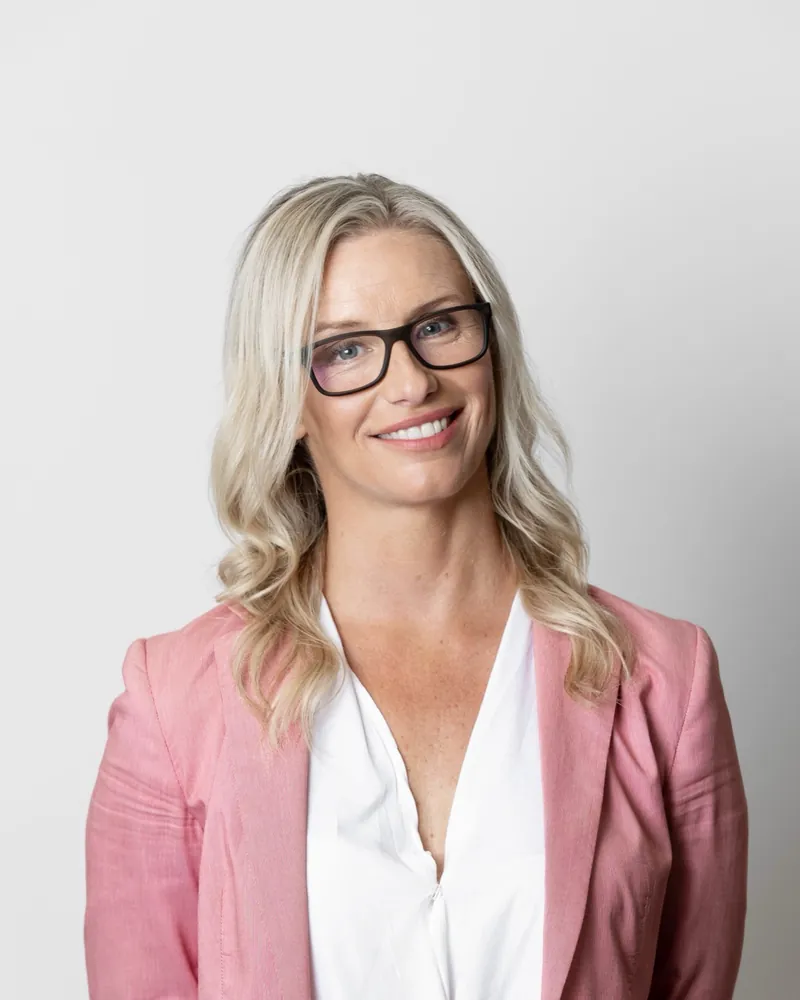
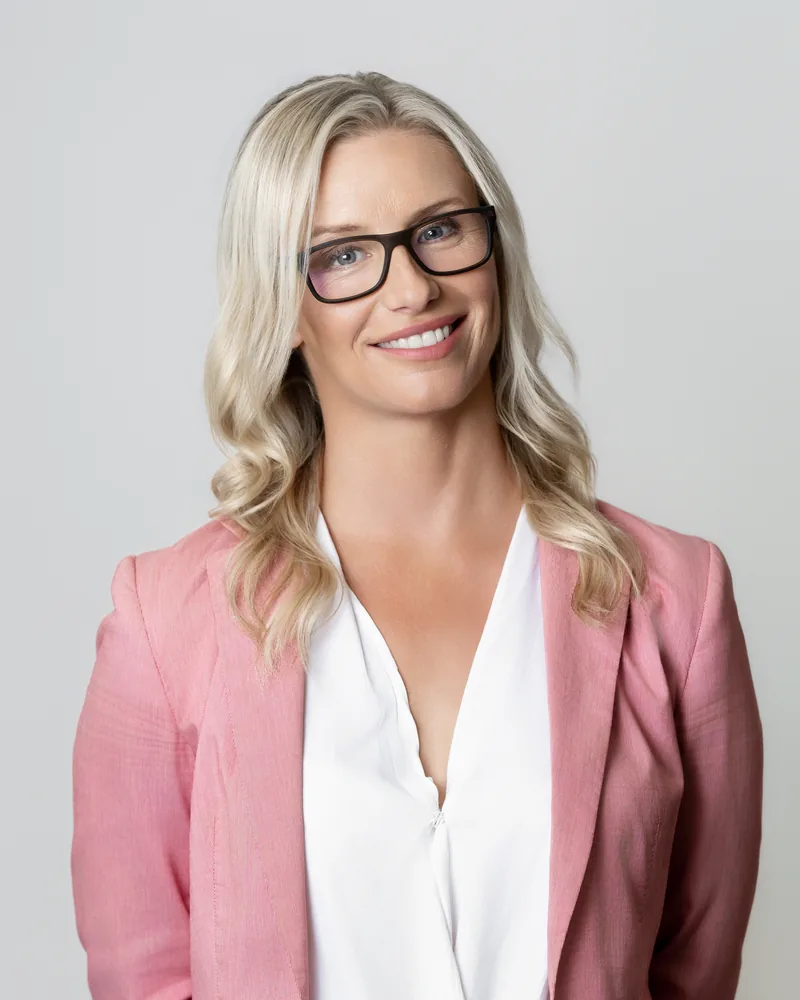
Photos: swap h-bondi hero/og to edited Bondi Sands frame (#6)
Regenerated h-bondi (jpg/webp/-800) from '6 Bondi Sands_(2).jpg' with
matching hero framing; ?v=3 on all h-bondi refs including og:image.

diff --git a/index.html b/index.html
@@ -18,7 +18,7 @@
 <meta property="og:url" content="https://perfectprofile.com.au/">
 <meta property="og:title" content="Corporate headshots Australia – your whole team, in a day">
 <meta property="og:description" content="We bring a photographer and a full studio setup to your office, anywhere in Australia, and photograph your whole team in a day. Matching headshots, back within 24 hours.">
-<meta property="og:image" content="https://perfectprofile.com.au/assets/img/h-bondi.jpg">
+<meta property="og:image" content="https://perfectprofile.com.au/assets/img/h-bondi.jpg?v=3">
 <meta name="twitter:card" content="summary_large_image">
 <script type="application/ld+json">
 {
@@ -28,7 +28,7 @@
   "description": "On-site corporate headshots and commercial photography. We bring a photographer and a full studio setup to your office and photograph your whole team in a day.",
   "url": "https://perfectprofile.com.au/",
   "logo": "https://perfectprofile.com.au/assets/img/logo-mark.svg",
-  "image": "https://perfectprofile.com.au/assets/img/h-bondi.jpg",
+  "image": "https://perfectprofile.com.au/assets/img/h-bondi.jpg?v=3",
   "address": {
     "@type": "PostalAddress",
     "addressCountry": "AU"
@@ -72,7 +72,7 @@
         <div class="lx-unveil">
           <div class="lx-plate-img lx-hero-slides">
             <!-- [html-validate-disable-block element-required-attributes: slides 2+ lazy-load via data-src in lx-hero.js] -->
-            <img src="assets/img/h-bondi.jpg" srcset="assets/img/h-bondi-800.webp 800w, assets/img/h-bondi.webp 1120w" sizes="(min-width: 980px) 40vw, 92vw" alt="Headshot of a woman in a pink blazer on a white background" fetchpriority="high" class="is-active" data-caption="Bondi Sands, headshot day">
+            <img src="assets/img/h-bondi.jpg?v=3" srcset="assets/img/h-bondi-800.webp?v=3 800w, assets/img/h-bondi.webp?v=3 1120w" sizes="(min-width: 980px) 40vw, 92vw" alt="Headshot of a woman in a pink blazer on a white background" fetchpriority="high" class="is-active" data-caption="Bondi Sands, headshot day">
             <img data-src="assets/img/h-thattil.jpg?v=3" data-srcset="assets/img/h-thattil-800.webp?v=3 800w, assets/img/h-thattil.webp?v=3 1120w" sizes="(min-width: 980px) 40vw, 92vw" alt="Editorial portrait in a yellow jacket on a pink background" data-caption="Maria Thattil, cover shoot">
             <img data-src="assets/img/h-vrc.jpg?v=3" data-srcset="assets/img/h-vrc-800.webp?v=3 800w, assets/img/h-vrc.webp?v=3 1120w" sizes="(min-width: 980px) 40vw, 92vw" alt="Model in a red suit on a white lounge" data-caption="VRC, carnival campaign">
             <img data-src="assets/img/h-wendell1.jpg?v=3" data-srcset="assets/img/h-wendell1-800.webp?v=3 800w, assets/img/h-wendell1.webp?v=3 1120w" sizes="(min-width: 980px) 40vw, 92vw" alt="Black and white portrait of a seated executive" data-caption="Executive series">

diff --git a/requestaquote.html b/requestaquote.html
@@ -18,7 +18,7 @@
 <meta property="og:url" content="https://perfectprofile.com.au/requestaquote">
 <meta property="og:title" content="Request a quote – Perfect Profile">
 <meta property="og:description" content="Request a quote for a Perfect Profile corporate headshot day at your office, anywhere in Australia.">
-<meta property="og:image" content="https://perfectprofile.com.au/assets/img/h-bondi.jpg">
+<meta property="og:image" content="https://perfectprofile.com.au/assets/img/h-bondi.jpg?v=3">
 <meta name="twitter:card" content="summary_large_image">
 <script type="application/ld+json">
 {
@@ -27,7 +27,7 @@
   "name": "Perfect Profile",
   "description": "On-site corporate headshots and commercial photography. We bring a photographer and a full studio setup to your office and photograph your whole team in a day.",
   "url": "https://perfectprofile.com.au/",
-  "image": "https://perfectprofile.com.au/assets/img/h-bondi.jpg",
+  "image": "https://perfectprofile.com.au/assets/img/h-bondi.jpg?v=3",
   "telephone": "+61 467 485 279",
   "email": "info@perfectprofile.com.au",
   "address": {

diff --git a/portfolio.html b/portfolio.html
@@ -18,7 +18,7 @@
 <meta property="og:url" content="https://perfectprofile.com.au/portfolio">
 <meta property="og:title" content="Portfolio – Australian corporate headshots – Perfect Profile">
 <meta property="og:description" content="Corporate headshots and commercial photography from recent shoot days around Australia, covering a range of industries and team sizes.">
-<meta property="og:image" content="https://perfectprofile.com.au/assets/img/h-bondi.jpg">
+<meta property="og:image" content="https://perfectprofile.com.au/assets/img/h-bondi.jpg?v=3">
 <meta name="twitter:card" content="summary_large_image">
 </head>
 <body class="lx">

diff --git a/services.html b/services.html
@@ -18,7 +18,7 @@
 <meta property="og:url" content="https://perfectprofile.com.au/services">
 <meta property="og:title" content="Corporate headshot days across Australia – Perfect Profile">
 <meta property="og:description" content="How a Perfect Profile shoot day works at your office: logistics, on-site setup, the shoot itself, retouching, and delivery.">
-<meta property="og:image" content="https://perfectprofile.com.au/assets/img/h-bondi.jpg">
+<meta property="og:image" content="https://perfectprofile.com.au/assets/img/h-bondi.jpg?v=3">
 <meta name="twitter:card" content="summary_large_image">
 </head>
 <body class="lx">

diff --git a/about.html b/about.html
@@ -18,7 +18,7 @@
 <meta property="og:url" content="https://perfectprofile.com.au/about">
 <meta property="og:title" content="About Perfect Profile – corporate photography across Australia">
 <meta property="og:description" content="Why we started Perfect Profile, how we work, and what we've photographed around Australia so far.">
-<meta property="og:image" content="https://perfectprofile.com.au/assets/img/h-bondi.jpg">
+<meta property="og:image" content="https://perfectprofile.com.au/assets/img/h-bondi.jpg?v=3">
 <meta name="twitter:card" content="summary_large_image">
 </head>
 <body class="lx">

diff --git a/contact.html b/contact.html
@@ -18,7 +18,7 @@
 <meta property="og:url" content="https://perfectprofile.com.au/contact">
 <meta property="og:title" content="Contact Us – Perfect Profile">
 <meta property="og:description" content="Phone, email and booking details for Perfect Profile. Reach us directly or book a video call at a time that suits you.">
-<meta property="og:image" content="https://perfectprofile.com.au/assets/img/h-bondi.jpg">
+<meta property="og:image" content="https://perfectprofile.com.au/assets/img/h-bondi.jpg?v=3">
 <meta name="twitter:card" content="summary_large_image">
 </head>
 <body class="lx">
